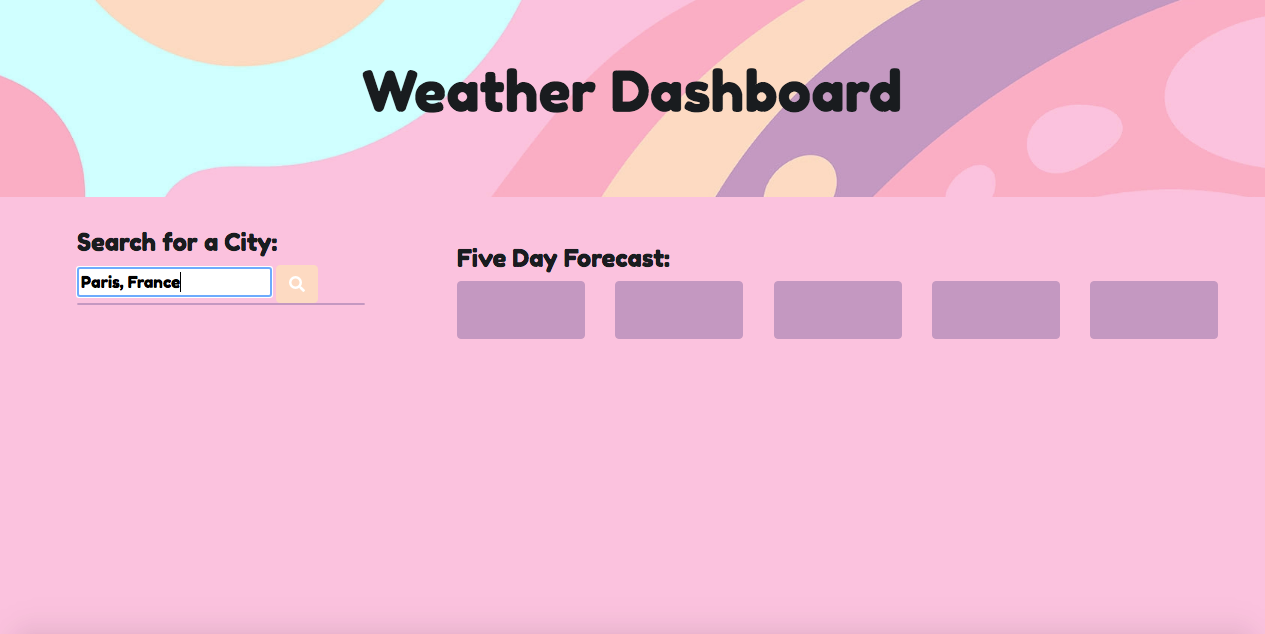
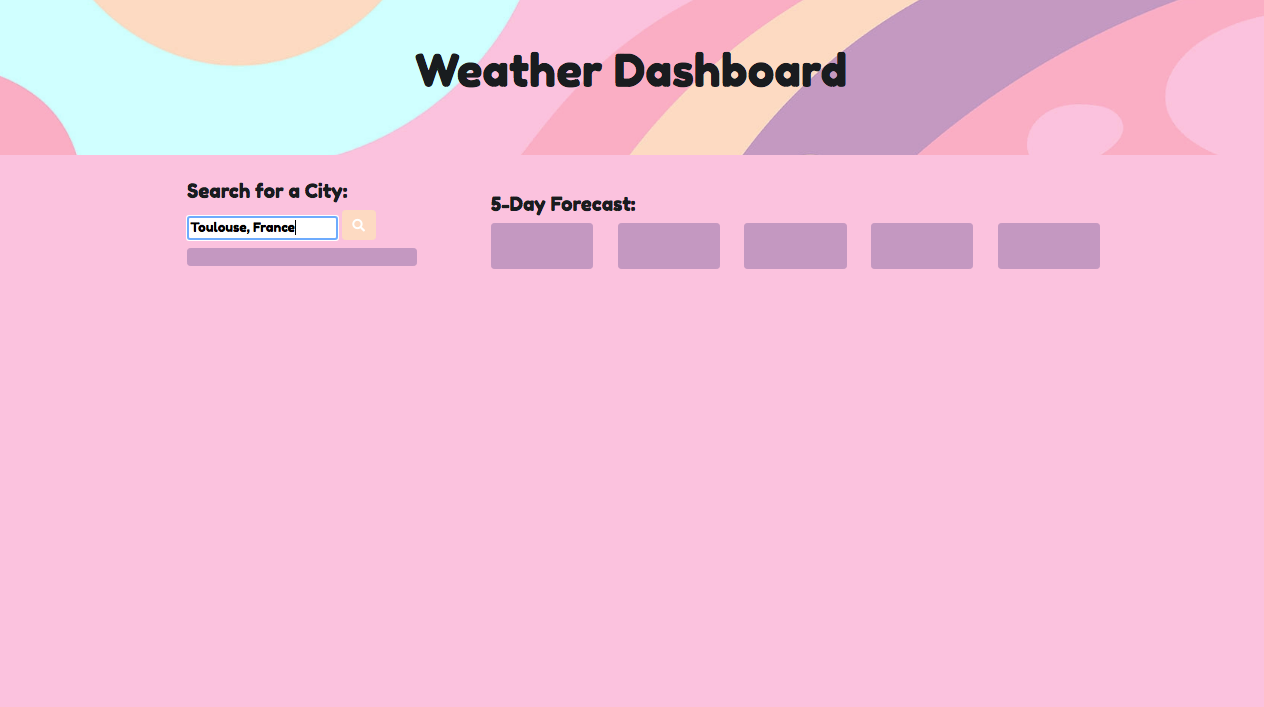
Added additional demonstration of local storage. Changed an image link.

diff --git a/README.md b/README.md
@@ -50,6 +50,8 @@ The following images demonstrate the use of ``local storage`` to save the previo
 
 ![Previously Searched Cities Preview](images/previouslySearchedCitiesPreview.png)
 
+![Local Storage Preview](images/localStoragePreview.png)
+
 ## Links
 
 1. [Deployed Application](https://rh9891.github.io/WeatherDashboard)
